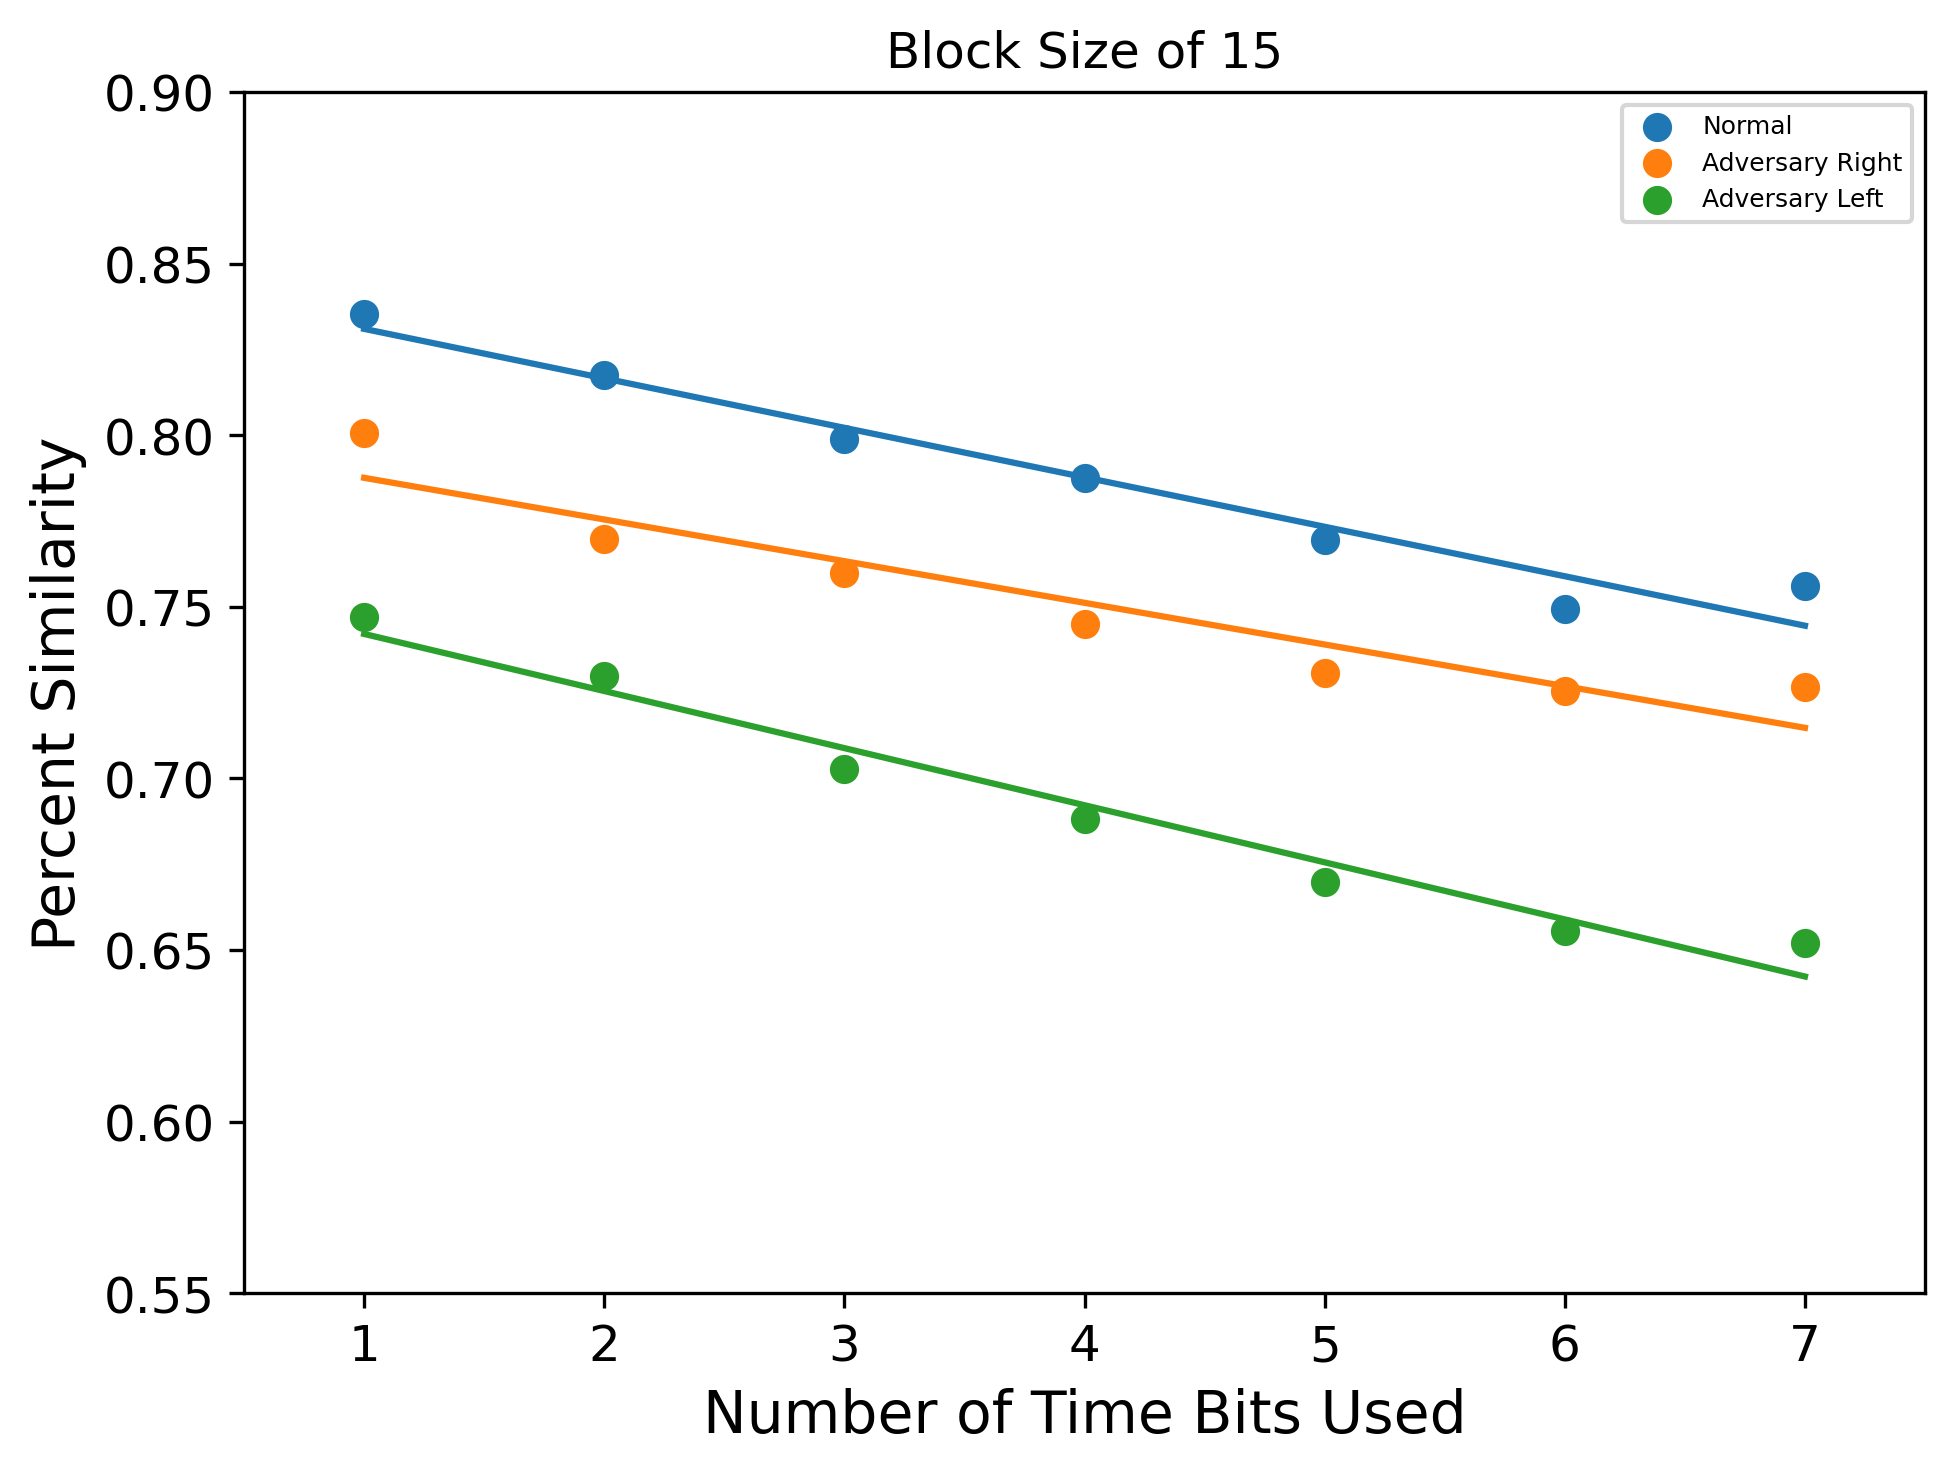
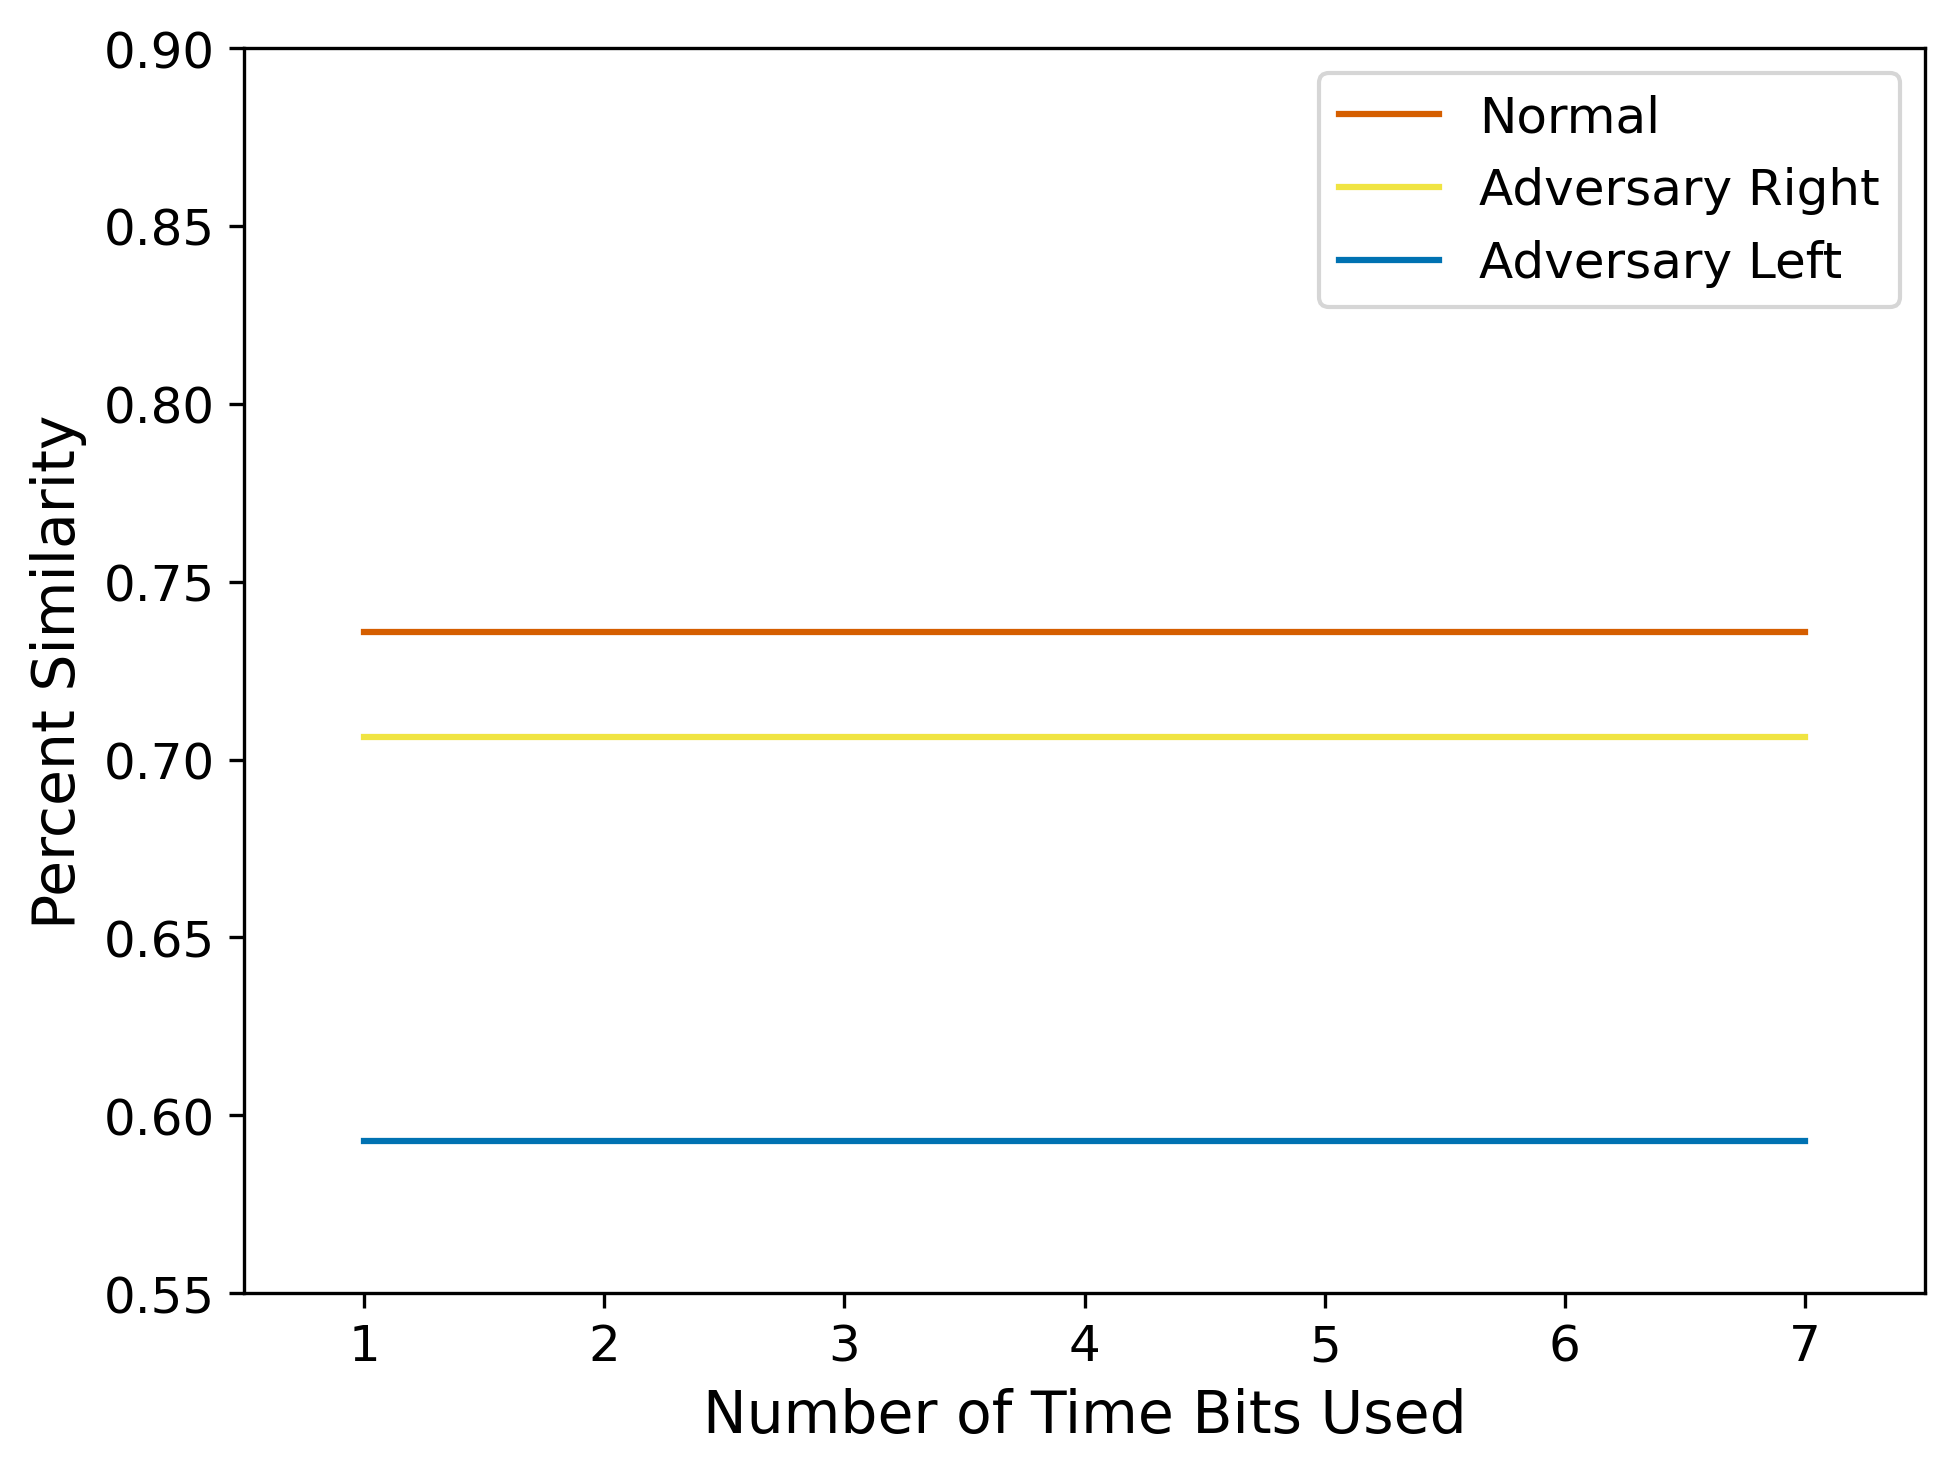
gwaphs

diff --git a/encode.py b/encode.py
@@ -17,7 +17,7 @@ def encode_event(t, e, reverse=False, time_resolution=4, bits_to_drop=1):
 
     return gray_code[int(t/(1<<bits_to_drop)) % (1<<time_resolution)] + (normal_map[e] if not reverse else reverse_map[e])
 
-def encode_zone(filename, start_time, length):
+def encode_zone(filename, start_time, length, zone_multiplier):
     """
     Takes in a file with sequential data about how many vehicles are in a zone at any given time
     Takes the average number of vehicles over the time period
@@ -42,16 +42,17 @@ def encode_zone(filename, start_time, length):
 
     average_vehicles = num_vehicles/num_frames
 
-    return gray_code[(average_vehicles*10)//1 % 16]
+    #print(average_vehicles)
+    return gray_code[(average_vehicles*zone_multiplier)//1 % 16]
 
-def block_encoding(filename, start_time, block_size, num_blocks, time_gap=0, reverse=False, tres=4, bits_to_drop=1, zone_name=None):
+def block_encoding(filename, start_time, block_size, num_blocks, time_gap=0, reverse=False, tres=4, bits_to_drop=1, zone_name=None, zone_multiplier=10):
     """
     Ecodes data from a csv into a list of encoded 'blocks', each containing all the events that occurred within a given time
     """
     df = pd.read_csv(filename)
 
     blocks = ['' for _ in range(num_blocks)]
-    
+    """
     for _, entry in df.iterrows():
         t = entry.iloc[0]
         e = entry.iloc[1]
@@ -60,10 +61,10 @@ def block_encoding(filename, start_time, block_size, num_blocks, time_gap=0, rev
 
         if block >= 0 and block < num_blocks and (t - start_time - block*(block_size+time_gap)) <= block_size:
             blocks[block] += (encode_event(t, e, reverse, time_resolution=tres, bits_to_drop=bits_to_drop))
-    
+    """
     if zone_name is not None:
         for index in range(len(blocks)):
-            blocks[index] += encode_zone(zone_name, start_time + index*block_size, block_size)
+            blocks[index] += encode_zone(zone_name, start_time + index*block_size, block_size, zone_multiplier)
     
     print(blocks)
     return blocks
@@ -274,12 +275,13 @@ def graphs_old():
         ax[i].set_xlim([0.5, 7.5])
         
 
-        ax[i].scatter(X_normal, data_normal)
-        ax[i].scatter(X_right, data_right)
-        ax[i].scatter(X_left, data_left)
+        ax[i].plot(X_normal, data_normal, color='#d55e00')
+        ax[i].plot(X_right, data_right, color='#f0e442')
+        ax[i].plot(X_left, data_left, color='#0072b2')
 
-        ax[i].legend(['Normal', 'Adversary Right','Adversary Left'], prop={'size': 6})
+        ax[i].legend(['Normal', 'Adversary Right','Adversary Left'], prop={'size': 12})
 
+        """
         #plot the lines of best fit
         a,b = best_fit(X_normal, data_normal)
         yfit = [a + b * xi for xi in X_normal]
@@ -290,11 +292,12 @@ def graphs_old():
         a,b = best_fit(X_left, data_left)
         yfit = [a + b * xi for xi in X_left]
         ax[i].plot(X_left, yfit)
+        """
 
         #show the image
         ax[i].set_xlabel("Number of Time Bits Used")
         ax[i].set_ylabel("Percent Similarity")
-        ax[i].set_title(f"Block Size of {i}")
+        #ax[i].set_title(f"Block Size of {i}")
 
     fig1.savefig('figures/Time-Block-All-1.png', dpi = 300, bbox_inches='tight')
     fig2.savefig('figures/Time-Block-All-2.png', dpi = 300, bbox_inches='tight')
@@ -479,8 +482,126 @@ def graphs_normal_time_resolution_block_size():
 
     plt.show()
 
+def graphs_zone_parameters():
+
+    
+    SMALL_SIZE = 12
+    MEDIUM_SIZE = 14
+    BIGGER_SIZE = 16
+
+    plt.rc('font', size=SMALL_SIZE)          # controls default text sizes
+    plt.rc('axes', titlesize=SMALL_SIZE)     # fontsize of the axes title
+    plt.rc('axes', labelsize=MEDIUM_SIZE)    # fontsize of the x and y labels
+    plt.rc('xtick', labelsize=SMALL_SIZE)    # fontsize of the tick labels
+    plt.rc('ytick', labelsize=SMALL_SIZE)    # fontsize of the tick labels
+    plt.rc('legend', fontsize=SMALL_SIZE)    # legend fontsize
+    plt.rc('figure', titlesize=BIGGER_SIZE)  # fontsize of the figure title
+
+    fig1, ((bx)) = plt.subplots(1, 1, layout="constrained")
+
+
+    rear_left = "data_adversary_rear_left"
+    rear_right = "data_adversary_rear_right"
+    front_long = "data_front_ultrawide_long"
+    front_normal = "data_front_ultrawide"
+    rear_normal = "data_rear_ultrawide"
+
+    platoon_2_front = "1690392480_platoon2_front"
+    platoon_2_rear = "1690392483_platoon2_rear"
+    platoon_3_front = "1690393032_platoon3_front"
+    platoon_3_rear = "1690393045_platoon3_rear"
+
+    adleft_rear_1 = "1690393465_adleft_rear_1"
+    adleft_front_1 = "1690393466_adleft_front_1"
+    adright_rear_1 = "1690394944_adright_rear_1"
+    adright_front_1 = "1690394942_adright_front_1"
+
+    pairs = [(rear_left, front_long, 1689369626, 'l', 120), (rear_right, front_long, 1689369483, 'r', 117),
+             (front_normal, rear_normal, 1689368390, 'n', 238), (platoon_2_front, platoon_2_rear, 1690392500, 'n', 240),
+             (platoon_3_front, platoon_3_rear, 1690393075, 'n', 275), (adleft_rear_1, adleft_front_1, 1690393470, 'l', 210),
+             (adright_rear_1, adright_front_1, 1690394950, 'r', 280)]
+    
+    data_normal = []
+    data_right = []
+    data_left = []
+    data = {'l': data_left, 'r': data_right, 'n': data_normal}
+    X_normal = []
+    X_right = []
+    X_left = []
+    X = {'l': X_left, 'r': X_right, 'n': X_normal}
+    
+    for i in range(4, 133, 16):
+        
+        temp_data_norm = [0]
+        num_norm = [0]
+        temp_data_right = [0]
+        num_right = [0]
+        temp_data_left = [0]
+        num_left = [0]
+        data = {'l': temp_data_left, 'r': temp_data_right, 'n': temp_data_norm}
+        X = {'l': num_left, 'r': num_right, 'n': num_norm}
+        
+        for pair in pairs:
+            data_1 = 'data-files/' + pair[0] + '.csv'
+            data_2 = 'data-files/' + pair[1] + '.csv'
+            zone_1 = 'data-zone/' + pair[0] + '_zone.csv'
+            zone_2 = 'data-zone/' + pair[1] + '_zone.csv'
+
+            length = pair[-1]
+            t = pair[2]
+        
+            #Use a block size of fifteen because that is relatively neutral
+            n = length//15
+        
+            block_1 = block_encoding(data_1, t, block_size=i, num_blocks=n, time_gap=0, reverse=True,
+                                        tres=4, bits_to_drop=1, zone_name=zone_1, zone_multiplier=i)
+            block_2 = block_encoding(data_2, t, block_size=i, num_blocks=n, time_gap=0,
+                                        tres=4, bits_to_drop=1, zone_name=zone_2, zone_multiplier=i)
+        
+            #data[pair[3]].append(validate_block(block_1, block_2))
+            #X[pair[3]].append(i)
+            data[pair[3]][0] += validate_block(block_1, block_2)
+            X[pair[3]][0] += 1
+
+        
+        
+        data_normal.append(temp_data_norm[0]/num_norm[0])
+        X_normal.append(i)
+        data_left.append(temp_data_left[0]/num_left[0])
+        X_left.append(i)
+        data_right.append(temp_data_right[0]/num_right[0])
+        X_right.append(i)
+        
+    
+
+    bx.scatter(X_normal, data_normal)
+    bx.scatter(X_right, data_right)
+    bx.scatter(X_left, data_left)
+
+    bx.legend(['Normal', 'Adversary Right','Adversary Left'])
+    #bx.legend(['Normal', 'Adversary'])
+    
+    #plot the lines of best fit
+    a,b = best_fit(X_normal, data_normal)
+    yfit = [a + b * xi for xi in X_normal]
+    bx.plot(X_normal, yfit)
+    a,b = best_fit(X_right, data_right)
+    yfit = [a + b * xi for xi in X_right]
+    bx.plot(X_right, yfit)
+    a,b = best_fit(X_left, data_left)
+    yfit = [a + b * xi for xi in X_left]
+    bx.plot(X_left, yfit)
+    
+
+    
+    bx.set_xlabel("Zone Multiplier")
+    bx.set_ylabel("Percent Similarity")
+
+    fig1.savefig('figures/Zone-Multiplier-16b.png', dpi = 300, bbox_inches='tight')
+
 if __name__ == "__main__":
-    graphs_old()
+    graphs_zone_parameters()
+    #graphs_old()
     #graph_block_size()
     #graphs_normal_time_resolution_block_size()
     #front_normal = "data-files/data_front_ultrawide.csv"
